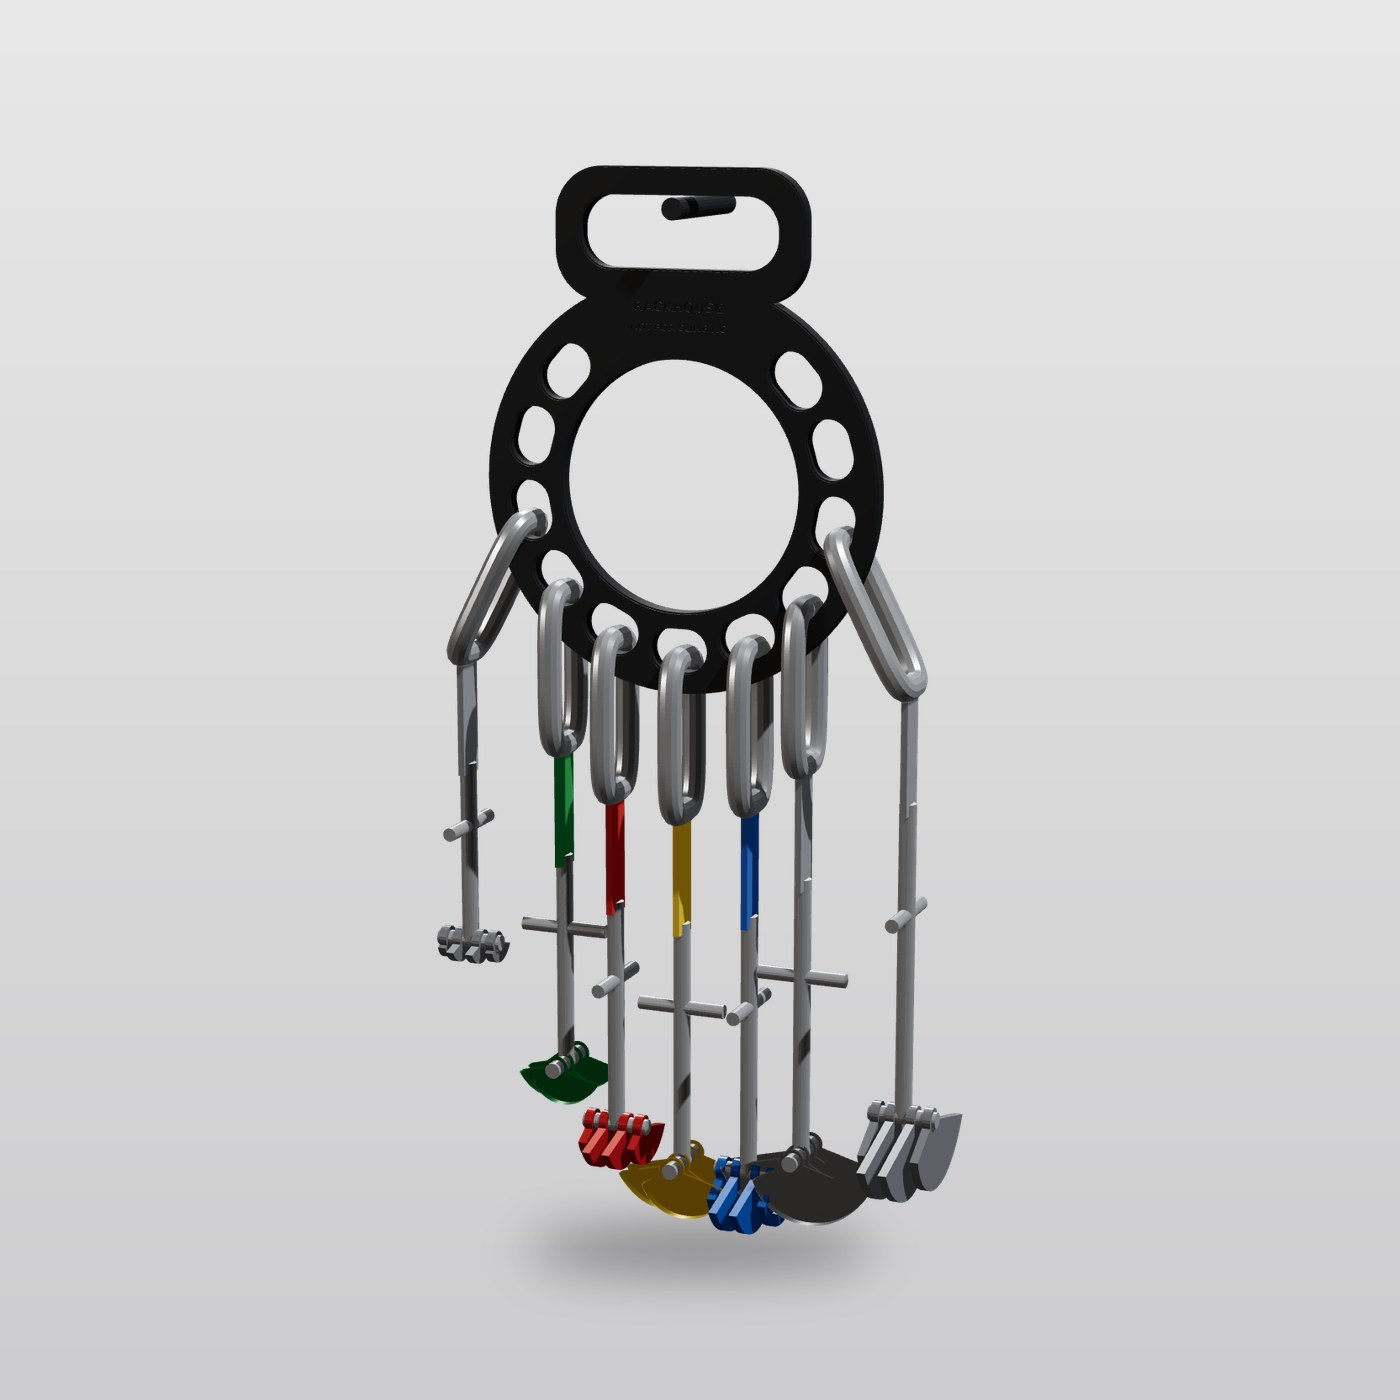
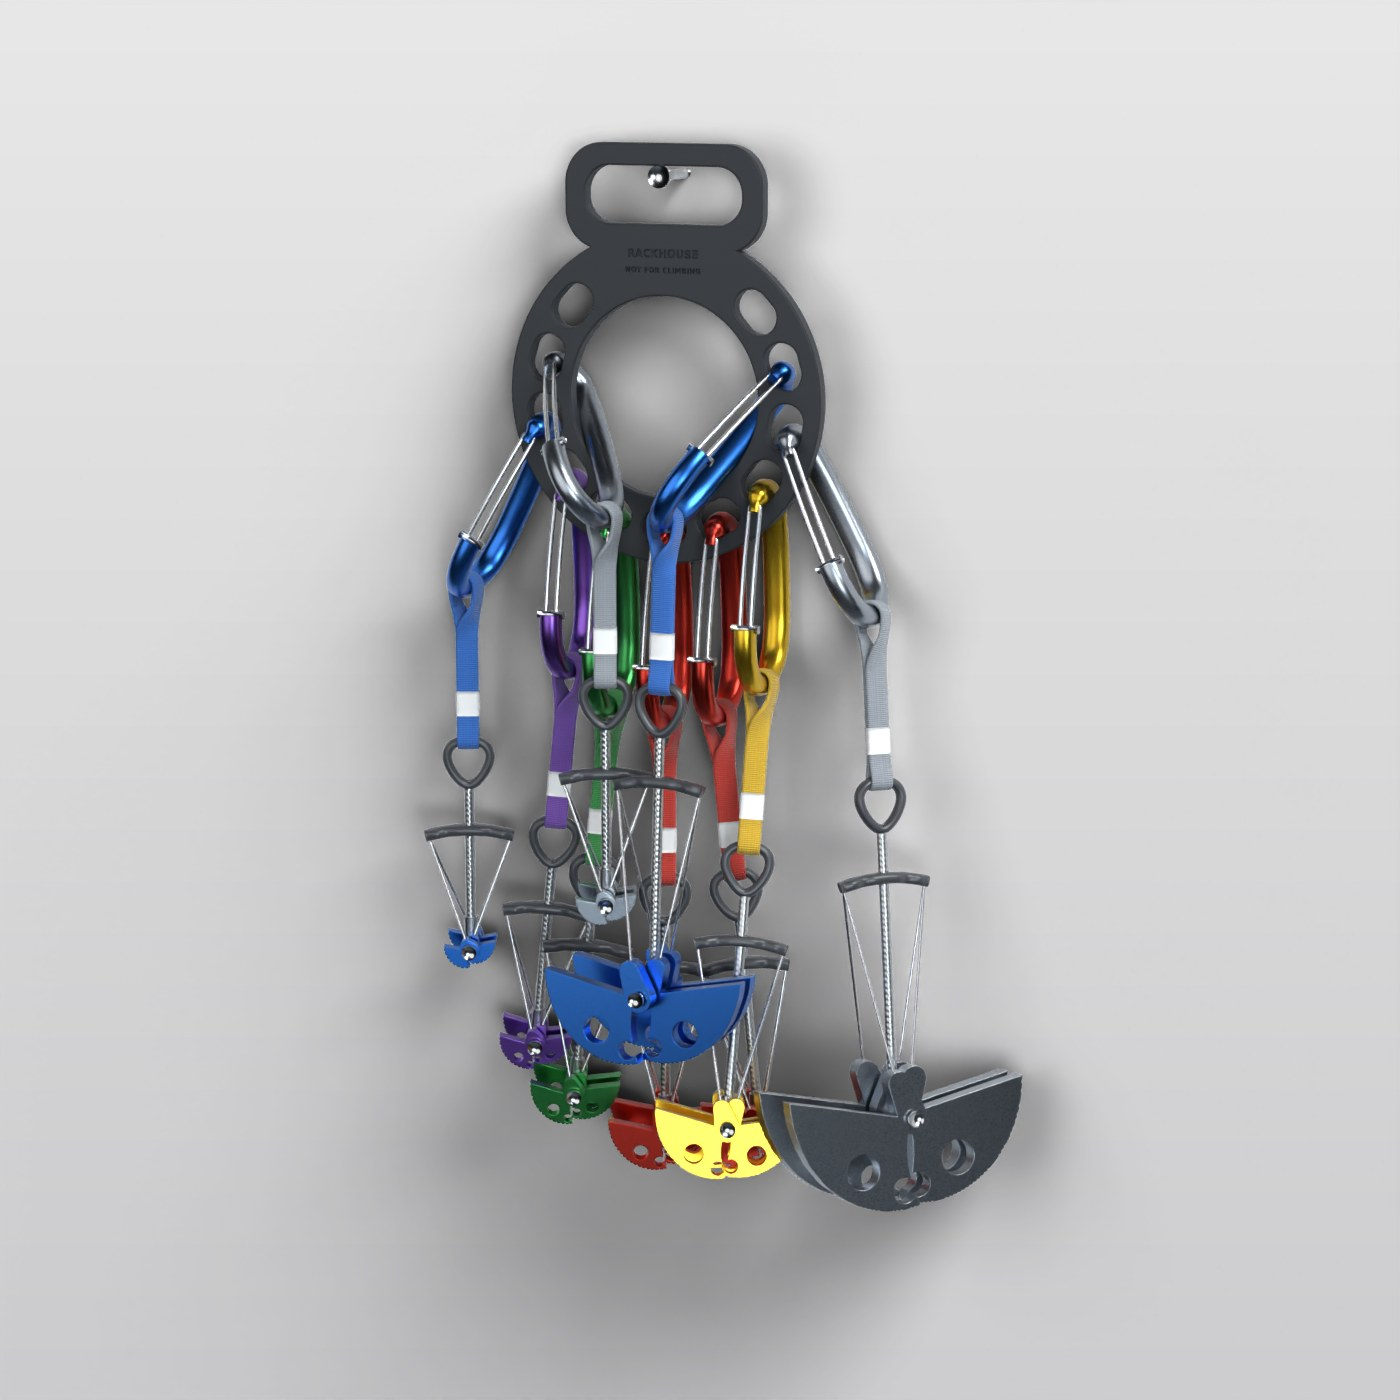
Finish photoreal renders: Crag Ring gear shots, tighter dark heroes, new share image
Claude-Session: https://claude.ai/code/session_01LmeYUYCvm4LdAhtd6EcQ36

Changed region(s): [[0.2457, 0.0921, 0.7679, 1.0]]

diff --git a/designs/make_share_image.py b/designs/make_share_image.py
@@ -16,7 +16,8 @@ def main():
         t = y / H
         d.line([(0, y), (W, y)], fill=(int(30 - 12 * t), int(22 - 6 * t), int(18 - 4 * t)))
     hero = Image.open(os.path.join(ROOT, "img", "products", "gear-board-hero-dark.jpg"))
-    hero = hero.crop((150, 0, 1850, 1400)).resize((765, 630), Image.LANCZOS)
+    hw, hh = hero.size
+    hero = hero.crop((int(hw * 0.075), 0, int(hw * 0.925), hh)).resize((765, 630), Image.LANCZOS)
     mask = Image.linear_gradient("L").rotate(90).resize((765, 630))   # fade in from the left
     mask = mask.point(lambda v: min(255, int(v * 2.2)))
     bg.paste(hero, (W - 765, 0), mask)
